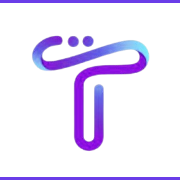
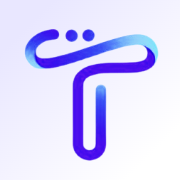
Your descriptive commit message

Changed region(s): [[0.1111, 0.1389, 0.8889, 0.9167], [0.0, 0.9722, 1.0, 1.0], [0.0, 0.0, 1.0, 0.0278]]

diff --git a/index.html b/index.html
@@ -983,7 +983,7 @@
 <nav class="navbar" data-aos="fade-down">
     <div class="nav-content">
         <a href="#" class="logo">
-            <img src="images/0.png" alt="Logo" class="logo-icon">
+            <img src="images/logo.png" alt="Logo" class="logo-icon">
         </a>
         <div class="hamburger" id="hamburger">
             <span></span>
